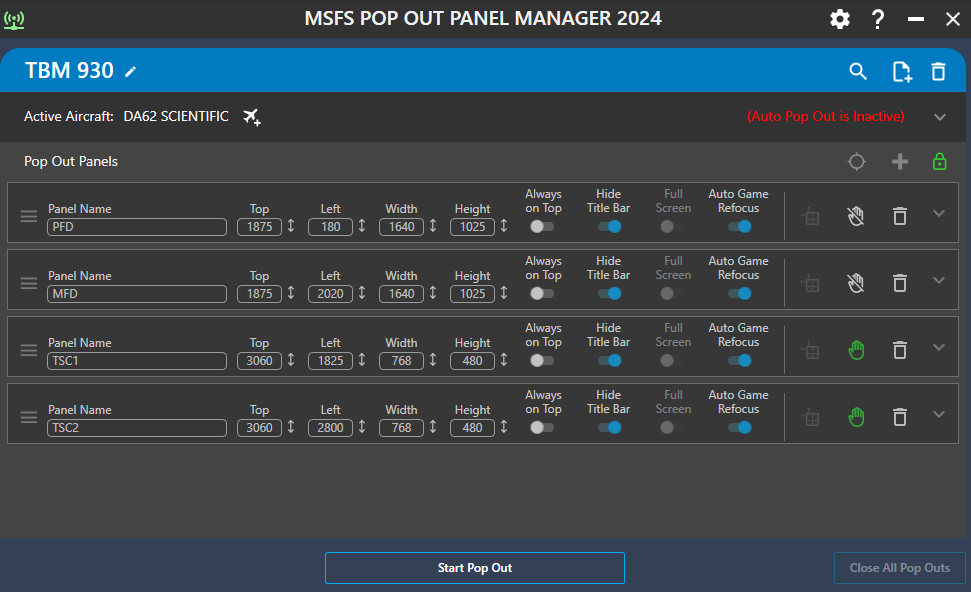
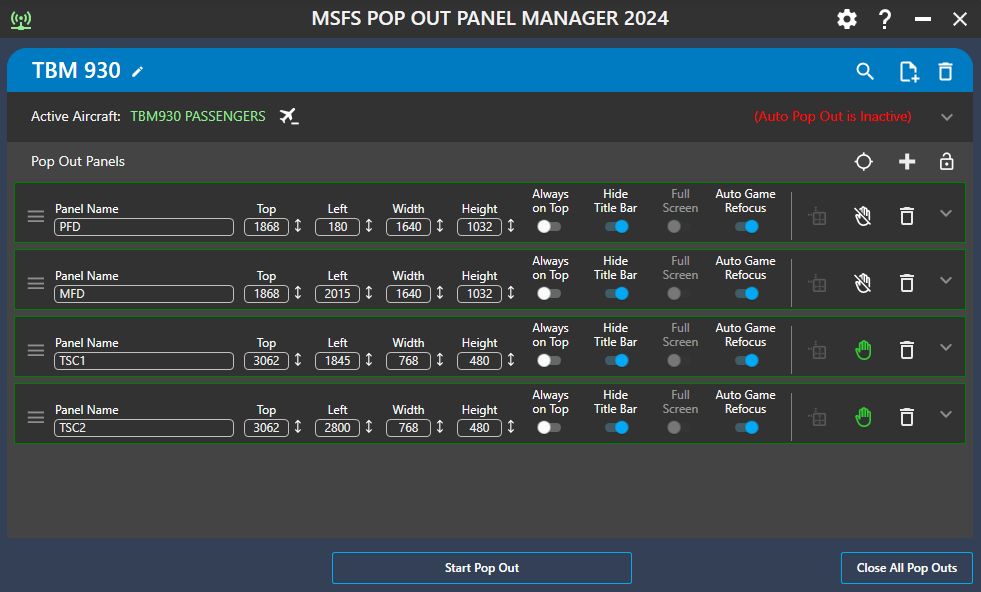
avançant2

diff --git a/panelAIR1000/CSharpSimConnect/ConfigurationForm.cs b/panelAIR1000/CSharpSimConnect/ConfigurationForm.cs
@@ -397,6 +397,23 @@ namespace SimConnect3
                 return lbl;
             }
 
+            Label AddItalicLine(ref int y, string text, int gapBefore = 24)
+            {
+                y += gapBefore;
+                var lbl = new Label
+                {
+                    Text = text,
+                    Font = new Font("Segoe UI", 18f, FontStyle.Italic),
+                    ForeColor = Color.FromArgb(102, 114, 127),
+                    Location = new Point(32, y),
+                    AutoSize = true,
+                    MaximumSize = new Size(textWidth, 0)
+                };
+                scrollPanel.Controls.Add(lbl);
+                y = lbl.Bottom;
+                return lbl;
+            }
+
             Label AddIconLine(ref int y, string text, string resourceName, int gapBefore = 24)
             {
                 y += gapBefore;
@@ -459,6 +476,7 @@ namespace SimConnect3
             AddLine(ref y, "6.  Press \"Start Pop Out\" at the bottom.");
             AddWarningLine(ref y, "Don't touch your mouse while this happens — wait until it finishes and the POPM window reappears (it disappears during the process).");
             AddLine(ref y, "7.  The screens will open at an arbitrary position and size. Paste the Top/Left/Width/Height values we provide below under the \"G1000 coordinates\" or \"G3000 coordinates\" title — for G1000, they're the same for any G1000 aircraft. Turn on \"Hide Title Bar\" for every panel.", 16);
+            AddItalicLine(ref y, "The windows move live as you type — but only Start Pop Out confirms the final fit.", 4);
             AddIconLine(ref y, "8.  For TSC1 and TSC2 only, also turn on touch screen using the hand icon.", "panelAIR1000.Resources.popm_touch_icon.png");
             AddLine(ref y, "9.  Once the aircraft is fully set up, lock it — turn the padlock green, like in the picture below.");
 
@@ -479,16 +497,30 @@ namespace SimConnect3
             catch { }
             scrollPanel.Controls.Add(screenshotBox);
 
+            var screenshotCaptionLbl = new Label
+            {
+                Text = "For reference only — use the calculators below to get the exact values for your setup.",
+                Font = new Font("Segoe UI", 16f, FontStyle.Italic),
+                ForeColor = Color.FromArgb(102, 114, 127),
+                Location = new Point(32, screenshotBox.Bottom + 8),
+                AutoSize = true,
+                MaximumSize = new Size(textWidth, 0)
+            };
+            scrollPanel.Controls.Add(screenshotCaptionLbl);
+
             var oneProfileNoteLbl = new Label
             {
                 Text = "You'll need one profile in POPM for every aircraft you want to fly — paste the same G1000 values below into each one.",
                 Font = new Font("Segoe UI", 20f),
                 ForeColor = Color.FromArgb(102, 114, 127),
-                Location = new Point(32, screenshotBox.Bottom + 32),
+                Location = new Point(32, screenshotCaptionLbl.Bottom + 24),
                 AutoSize = true,
                 MaximumSize = new Size(textWidth, 0)
             };
             scrollPanel.Controls.Add(oneProfileNoteLbl);
+
+            int afterOneProfileY = oneProfileNoteLbl.Bottom;
+            AddItalicLine(ref afterOneProfileY, "These values may need a few pixels of manual adjustment — that's normal.", 8);
 
             // G1000 (PFD, MFD) i G3000/TBM 930 (PFD, MFD, TSC1, TSC2): Width/Height ja se saben
             // (fixos, mateixa resolució 3840x2160 sempre), però Top/Left depenen d'on tingui el
@@ -506,10 +538,10 @@ namespace SimConnect3
             };
             var g3000Panels2024 = new[]
             {
-                ("PFD", 1875, 180, 1640, 1025),
-                ("MFD", 1875, 2020, 1640, 1025),
-                ("TSC1", 3060, 1825, 768, 480),
-                ("TSC2", 3060, 2800, 768, 480)
+                ("PFD", 1868, 180, 1640, 1032),
+                ("MFD", 1868, 2015, 1640, 1032),
+                ("TSC1", 3062, 1845, 768, 480),
+                ("TSC2", 3062, 2800, 768, 480)
             };
 
             const int ref2020Left = 0, ref2020Top = 1440;
@@ -536,7 +568,7 @@ namespace SimConnect3
                 Text = "G1000 coordinates",
                 Font = new Font("Segoe UI", 24f, FontStyle.Bold),
                 ForeColor = Color.FromArgb(22, 32, 42),
-                Location = new Point(32, oneProfileNoteLbl.Bottom + 32),
+                Location = new Point(32, afterOneProfileY + 32),
                 AutoSize = true
             };
             scrollPanel.Controls.Add(g1000GroupLbl);
